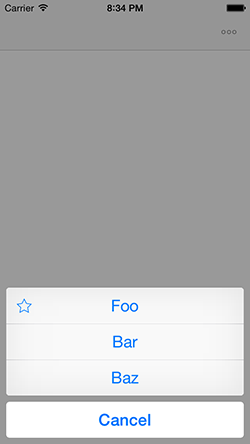
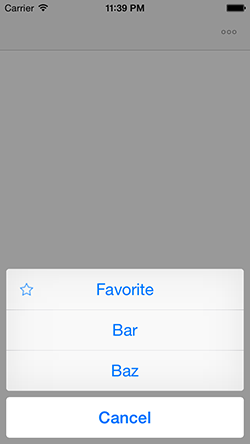
Add state to menu item.
- Draw background in ON state.
- Alternative title for ON state.
- Alternative image for ON state.

diff --git a/MBBarMenu/MBBarMenuViewController.m b/MBBarMenu/MBBarMenuViewController.m
@@ -44,7 +44,7 @@
     if (self) {
         self.maximumItemCountPhone = DEFAULT_MAX_ITEM_COUNT_PHONE;
         self.maximumItemCountPad = DEFAULT_MAX_ITEM_COUNT_PAD;
-        self.items = [NSMutableArray array];//[[NSMutableArray alloc] initWithArray:[NSArray array]];
+        self.items = [NSMutableArray array];
     }
     return self;
 }
@@ -59,20 +59,79 @@
     return self.items.count <= self.maximumItemCount ? self.items.count : self.maximumItemCount - 1;
 }
 
+- (NSString *)titleForMenuItem:(MBBarMenuItem *)bmItem
+{
+    NSString *title;
+    if (bmItem.titleActivated && bmItem.isActivated && bmItem.isActivated()) {
+        title = bmItem.titleActivated;
+    } else {
+        title = bmItem.title;
+    }
+    return title;
+}
+
+- (UIImage *)imageForMenuItem:(MBBarMenuItem *)bmItem
+{
+    UIImage *image;
+    if (bmItem.imageActivated && bmItem.isActivated && bmItem.isActivated()) {
+        image = bmItem.imageActivated;
+    } else if (bmItem.image) {
+        image = bmItem.image;
+    }
+    return image;
+}
+
+- (UIImage *)backgroundImageForMenuItem:(MBBarMenuItem *)bmItem
+{
+    NSString *backgroundName = (bmItem.isActivated && bmItem.isActivated()) ? @"barButtonBackground" : @"barButtonBackgroundClear";
+    UIImage *background = [UIImage imageNamed:backgroundName];
+    background = [background imageWithRenderingMode:UIImageRenderingModeAlwaysTemplate];
+    background = [background resizableImageWithCapInsets:UIEdgeInsetsMake(4, 4, 4, 4)];
+    return background;
+}
+
+- (UIImage *)combineImage:(UIImage *)image1 withBackground:(UIImage *)image2
+{
+    if (!image1) {
+        return nil;
+    }
+
+    NSInteger padding = 4;
+    CGSize size = CGSizeMake(image2.size.width+2*padding, image2.size.height+2*padding);
+    UIGraphicsBeginImageContext(size);
+    [image2 drawInRect:CGRectMake(0, 0, size.width, size.height)];
+    [image1 drawInRect:CGRectMake(padding, padding, image2.size.width, image2.size.height)];
+    UIImage *newImage = UIGraphicsGetImageFromCurrentImageContext();
+    UIGraphicsEndImageContext();
+
+    return newImage;
+}
+
+- (UIImage *)actionImageForMenuItem:(MBBarMenuItem *)bmItem
+{
+    UIImage *image = [self imageForMenuItem:bmItem];
+    UIImage *background = [self backgroundImageForMenuItem:bmItem];
+    return [self combineImage:image withBackground:background];
+}
+
 - (UIBarButtonItem *)barButtomItemForMenuItem:(MBBarMenuItem *)bmItem
 {
     UIBarButtonItem *item;
     if (bmItem.image) {
-        item = [[UIBarButtonItem alloc] initWithImage:bmItem.image
+        item = [[UIBarButtonItem alloc] initWithImage:[self imageForMenuItem:bmItem]
                                                 style:UIBarButtonItemStylePlain
                                                target:bmItem.target
                                                action:bmItem.action];
     } else {
-        item = [[UIBarButtonItem alloc] initWithTitle:bmItem.title
+        item = [[UIBarButtonItem alloc] initWithTitle:[self titleForMenuItem:bmItem]
                                                 style:UIBarButtonItemStylePlain
                                                target:bmItem.target
                                                action:bmItem.action];
     }
+
+    UIImage *background = [self backgroundImageForMenuItem:bmItem];
+    [item setBackgroundImage:background forState:UIControlStateNormal barMetrics:UIBarMetricsDefault];
+
     return item;
 }
 
@@ -117,14 +176,13 @@
     NSInteger barButtonCount = [self barButtonCount];
     NSRange range = NSMakeRange(barButtonCount, self.items.count);
     [[self.items subarrayWithRange:range] enumerateObjectsUsingBlock:^(MBBarMenuItem *bmItem, NSUInteger idx, BOOL *stop) {
-        UIAlertAction *action = [UIAlertAction actionWithTitle:bmItem.title
+        UIAlertAction *action = [UIAlertAction actionWithTitle:[self titleForMenuItem:bmItem]
                                                          style:UIAlertActionStyleDefault
                                                        handler:^(UIAlertAction *action) {
             [bmItem.target performSelector:bmItem.action withObject:nil afterDelay:0.0];
         }];
-        if (bmItem.image) {
-            [action setValue:bmItem.image forKey:@"image"];
-        }
+
+        [action setValue:[self actionImageForMenuItem:bmItem] forKey:@"image"];
         [alert addAction:action];
     }];
 

diff --git a/MBBarMenuDemo/MBBarMenuDemo/ViewController.m b/MBBarMenuDemo/MBBarMenuDemo/ViewController.m
@@ -10,6 +10,8 @@
 
 @interface ViewController ()
 
+@property (nonatomic) NSInteger firstItemIsFavorite;
+
 @end
 
 @implementation ViewController
@@ -17,11 +19,17 @@
 - (void)viewDidLoad
 {
     [super viewDidLoad];
+    self.firstItemIsFavorite = FALSE;
 
-    MBBarMenuItem *item1 = [[MBBarMenuItem alloc] initWithTitle:@"Foo"
+    MBBarMenuItem *item1 = [[MBBarMenuItem alloc] initWithTitle:@"Favorite"
                                                          target:self
-                                                         action:@selector(print)];
+                                                         action:@selector(toggleFirstItem)];
     item1.image = [UIImage imageNamed:@"starOutline"];
+    item1.imageActivated = [UIImage imageNamed:@"star"];
+    item1.titleActivated = @"Unfavorite";
+    item1.isActivated = ^BOOL() {
+        return self.firstItemIsFavorite;
+    };
     [self addBarMenuItem:item1];
 
     MBBarMenuItem *item2 = [[MBBarMenuItem alloc] initWithTitle:@"Bar"
@@ -33,6 +41,12 @@
                                                          target:self
                                                          action:@selector(print)];
     [self addBarMenuItem:item3];
+}
+
+- (void)toggleFirstItem
+{
+    self.firstItemIsFavorite = !self.firstItemIsFavorite;
+    [self updateUI];
 }
 
 - (void)print

diff --git a/MBBarMenu/MBBarMenuItem.h b/MBBarMenu/MBBarMenuItem.h
@@ -35,7 +35,11 @@
 @property (nonatomic, strong) id target;
 @property (nonatomic) SEL action;
 
+@property (nonatomic, strong) NSString *titleActivated;
+@property (copy) BOOL (^isActivated)(void);
+
 @property (nonatomic, strong) UIImage *image;
+@property (nonatomic, strong) UIImage *imageActivated;
 
 - (instancetype)initWithTitle:(NSString *)title
                        target:(id)target

diff --git a/MBBarMenu/MBBarMenuViewController.h b/MBBarMenu/MBBarMenuViewController.h
@@ -41,4 +41,6 @@
 - (void)addBarMenuItem:(MBBarMenuItem *)item;
 - (void)removeBarMenuItem:(MBBarMenuItem *)item;
 
+- (void)updateUI;
+
 @end

diff --git a/README.md b/README.md
@@ -28,8 +28,8 @@ MBBarMenu simplifies the arrangement of multiple UIBarButtonItems in an iOS UINa
 {
     [super viewDidLoad];
 
-    MBBarMenuItem *item1 = [[MBBarMenuItem alloc] initWithTitle:@"Foo" target:self action:@selector(bar)];
-    [self addBarMenuItem:item3];
+    MBBarMenuItem *item = [[MBBarMenuItem alloc] initWithTitle:@"Foo" target:self action:@selector(bar)];
+    [self addBarMenuItem:item];
 }
 ```
 
@@ -42,7 +42,15 @@ MBBarMenu simplifies the arrangement of multiple UIBarButtonItems in an iOS UINa
 - **title**: the text of the item shown in the navigation bar or alert controller (required)
 - **action**: the action to be triggered after selecting the item (required)
 - **target**: the receiver of the action (required)
-- **image**: the image replacing the text in the navigation bar; also show in the alert controller
+- **image**: the image replacing the text in the navigation bar; also shown in the alert controller
+- **isActivated**: the handler to determine the state of an item { ON | OFF }
+- **titleActivated**: the text of the item in activated state
+- **imageActivated**: the image for the item in activated state
+
+# Todo
+- Consider iPhone landscape mode
+- Does it also work on dark navigation bars?
+- Improve state updates of single items (currently all items will be recreated)
 
 # License
 	The MIT License (MIT)
